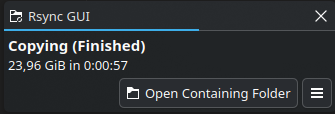
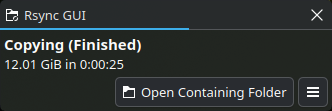
Screenshots: the Plasma notification again
Taken on the desktop with the current build: the running job with
Details expanded and the finished one; the summary lines now come in
the English number format. The README examples match the new images.

diff --git a/README.md b/README.md
@@ -226,7 +226,7 @@ While a transfer runs, its progress is also shown
   in the background before the copy (rsync does not report it), so with a remote source there is no
   graph. Files that are already up to date in the destination count in the total but are not copied,
   so the graph may end before the right edge. When the job ends, the notification shows a summary
-  ("24,0 GiB in 0:00:57", "Cancelled after …" or the error).
+  ("12.01 GiB in 0:00:25", "Cancelled after …" or the error).
 
 On other desktops or without a session bus this does nothing.
 
